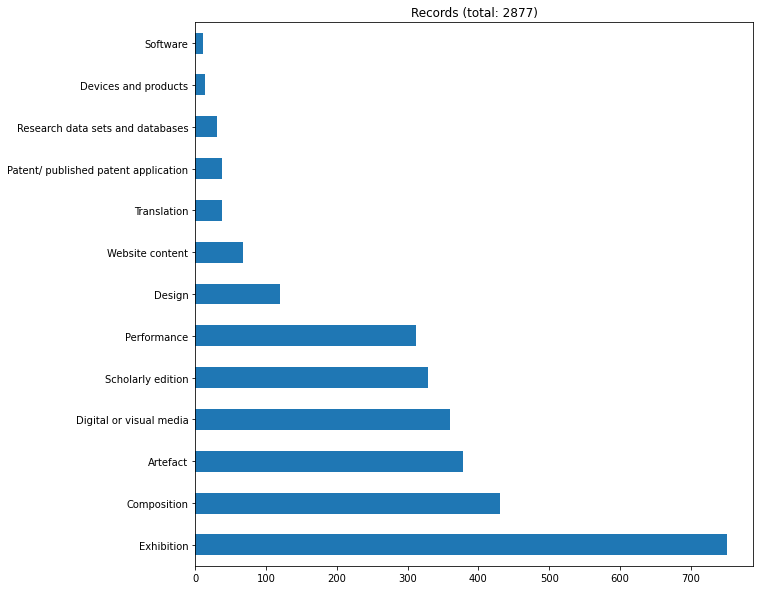
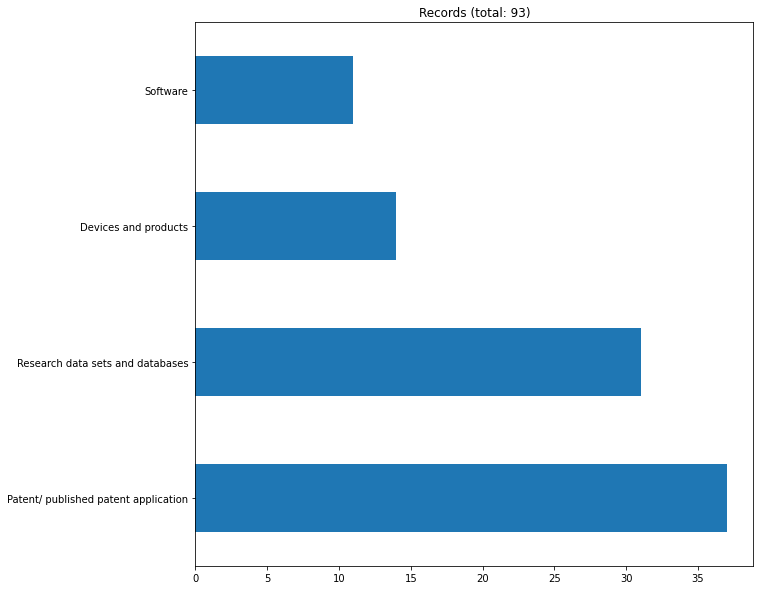
Update outputs.

diff --git a/src/codebook.py b/src/codebook.py
@@ -14,8 +14,8 @@ COL_RG_NAME = 'Research group name'
 COL_OUTPUT_TYPE_CODE = 'Output type'
 COL_OUTPUT_TYPE_NAME = 'Output type name'
 COL_OPEN_ACCESS = 'Open access status'
-
 COL_OUTPUT_TITLE = 'Title'
+COL_OUTPUT_SUPP = 'Supplementary information'
 
 # value to add if no entry in the data
 VALUE_ADDED_NOT_SPECIFIED = 'Not specified - PP ADDED'

diff --git a/notebooks/study.md b/notebooks/study.md
@@ -47,25 +47,16 @@
 
 
     
-    Records without
-    ['Journal article', 'Authored book', 'Chapter in book', 'Edited book', 'Conference contribution', 'Working paper', 'Research report for external body', 'Other', 'Not specified - PP ADDED']
+    Records in categories
+    ['Research data sets and databases', 'Devices and products', 'Patent/ published patent application', 'Software']
     
     Output type name
                                           Records  Records (%)
     Output type name                                          
-    Exhibition                                751    26.094510
-    Composition                               430    14.940931
-    Artefact                                  378    13.134121
-    Digital or visual media                   360    12.508687
-    Scholarly edition                         329    11.431550
-    Performance                               312    10.840862
-    Design                                    119     4.134816
-    Website content                            67     2.328006
-    Translation                                38     1.320361
-    Patent/ published patent application       37     1.285615
-    Research data sets and databases           31     1.077137
-    Devices and products                       14     0.486449
-    Software                                   11     0.382210
+    Patent/ published patent application       37    39.784946
+    Research data sets and databases           31    33.333333
+    Devices and products                       14    15.053763
+    Software                                   11    11.827957
 
 
 
